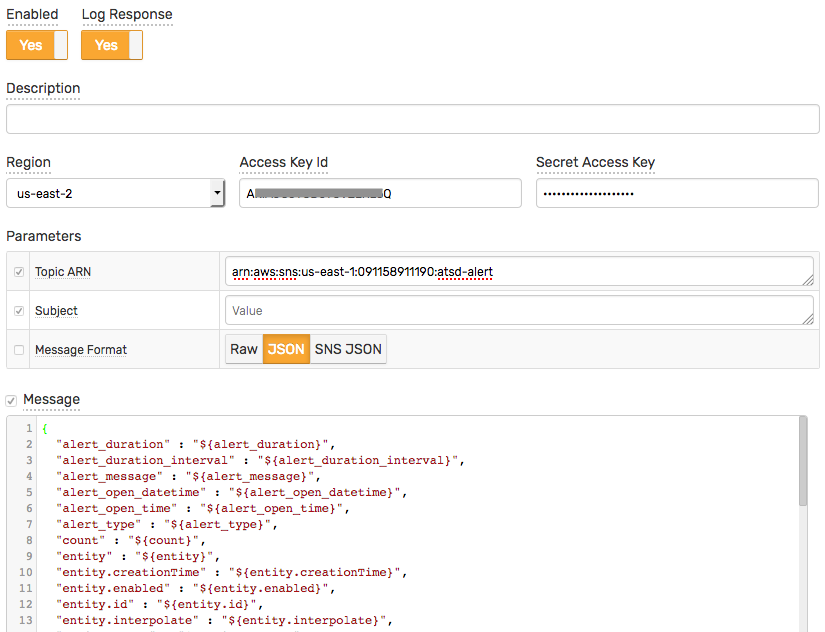
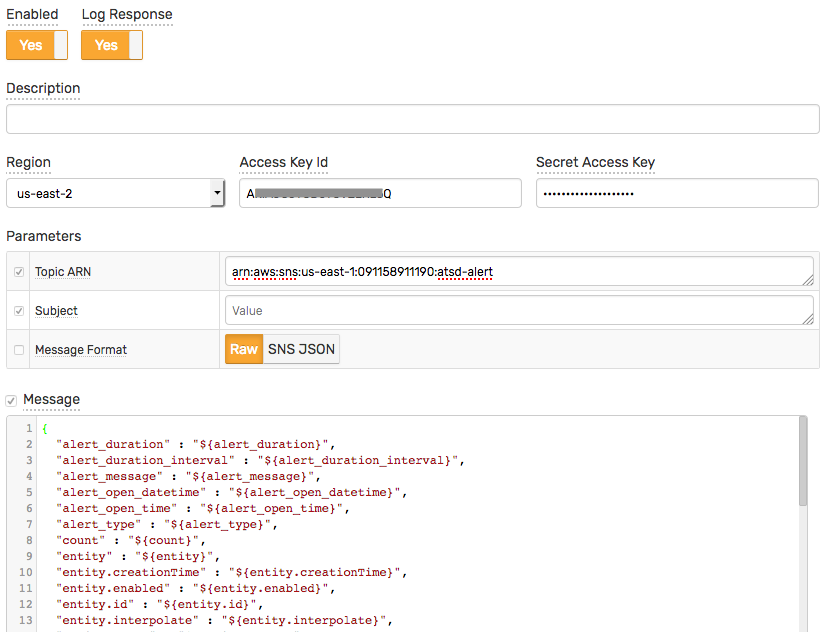
changes: - removed JSON format - updated configuration screenshot

Changed region(s): [[0.2727, 0.5111, 0.4848, 0.6013]]

diff --git a/rule-engine/notifications/aws-sns.md b/rule-engine/notifications/aws-sns.md
@@ -16,7 +16,7 @@ The request includes both the standard HTTP headers (such as Content-Type, Host,
 
 ### Signature
 
-The request are signed with the [AWS Signature Version 4](http://docs.aws.amazon.com/general/latest/gr/signature-version-4.html).
+The request is signed with the [AWS Signature Version 4](http://docs.aws.amazon.com/general/latest/gr/signature-version-4.html).
 
 ### Message
 
@@ -27,7 +27,6 @@ The default JSON message includes all fields that are relevant to the alert, inc
 |**Setting**|**Description**|
 |---|---|
 |`RAW`|The message will be sent as plain text.|
-|`JSON`|The same as `RAW` format except that the JSON content is highlighted.|
 |`SNS_JSON`|Select this format to send [a different message for each protocol](http://docs.aws.amazon.com/sns/latest/api/API_Publish.html) ([example](http://docs.aws.amazon.com/sns/latest/dg/mobile-push-send-custommessage.html)).|
 
 ## Response
